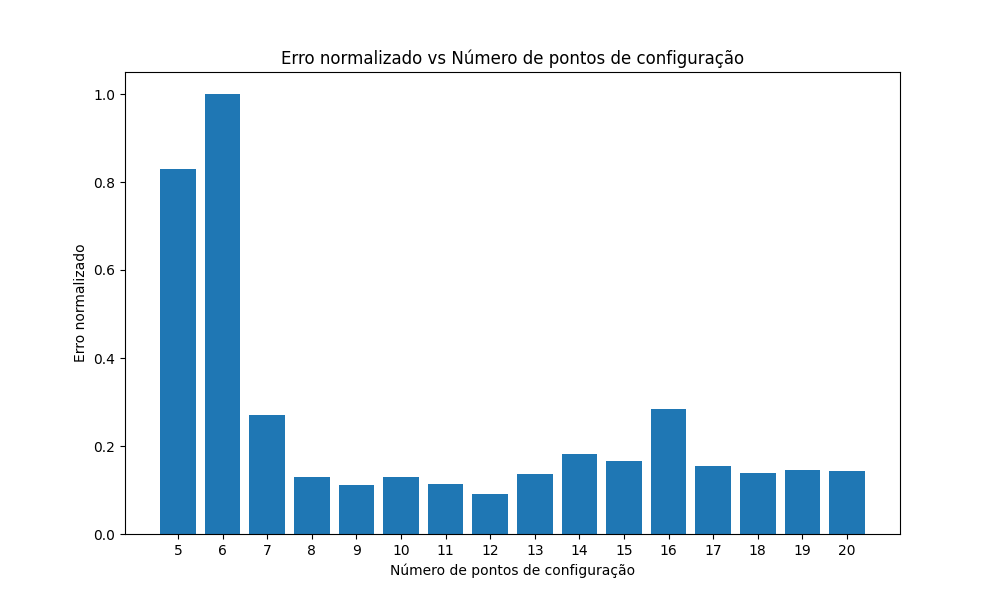
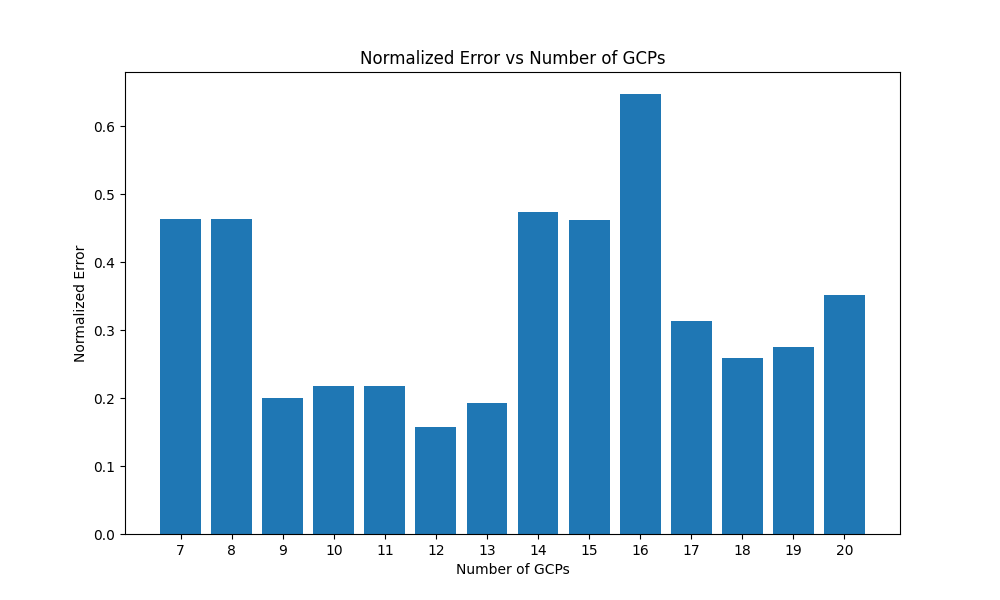
more results

diff --git a/CHENGDU.py b/CHENGDU.py
@@ -1,4 +1,4 @@
-# TESTE ELVAS
+# TESTE MICHIGAN 
 import cv2
 import numpy as np
 import math
@@ -58,43 +58,43 @@ def latlon_to_xy(lat_deg, lon_deg, lat0_deg, lon0_deg):
 def main():
     # 1. Definir as coordenadas de Configuração e Teste (strings)
     config_coords_str = [
-        "38.875340°N 7.164515°W",
-        "38.875394°N 7.164664°W",
-        "38.875270°N 7.164353°W",
-        "38.875199°N 7.164562°W",
-        "38.875531°N 7.164456°W",
-        "38.875565°N 7.164642°W",
-        "38.875216°N 7.164752°W",
-        "38.875139°N 7.164428°W",
-        "38.875468°N 7.164205°W",
-        "38.875589°N 7.164317°W",
-        "38.875668°N 7.164758°W",
-        "38.875516°N 7.164837°W",
-        "38.875111°N 7.164654°W",
-        "38.875060°N 7.164320°W",
-        "38.875186°N 7.164166°W",
-        "38.875011°N 7.164581°W",
-        "38.875315°N 7.164904°W",
-        "38.875465°N 7.164362°W",
-        "38.875389°N 7.164752°W",
-        "38.875260°N 7.164445°W"
+        "30.565206°N 104.083595°E",
+        "30.565403°N 104.083449°E",
+        "30.565391°N 104.083626°E",
+        "30.565243°N 104.083402°E",
+        "30.565005°N 104.083492°E",
+        "30.565513°N 104.083556°E",
+        "30.565294°N 104.083816°E",
+        "30.565324°N 104.083251°E",
+        "30.565461°N 104.083402°E",
+        "30.565069°N 104.083711°E",
+        "30.565458°N 104.083763°E",
+        "30.565160°N 104.083304°E",
+        "30.565495°N 104.083471°E",
+        "30.565018°N 104.083625°E",
+        "30.565415°N 104.083346°E",
+        "30.565126°N 104.083803°E",
+        "30.565492°N 104.083695°E",
+        "30.565086°N 104.083354°E",
+        "30.565392°N 104.083834°E",
+        "30.565212°N 104.083272°E"
     ]
     test_coords_str = [
-        "38.875338°N 7.164687°W",
-        "38.875199°N 7.164639°W",
-        "38.875157°N 7.164494°W",
-        "38.875209°N 7.164368°W",
-        "38.875313°N 7.164284°W",
-        "38.875425°N 7.164303°W",
-        "38.875487°N 7.164426°W",
-        "38.875508°N 7.164530°W",
-        "38.875479°N 7.164637°W",
-        "38.875429°N 7.164702°W",
-        "38.875287°N 7.164766°W",
-        "38.875201°N 7.164812°W",
-        "38.875148°N 7.164851°W",
-        "38.875076°N 7.164814°W",
-        "38.875117°N 7.164744°W"
+        "30.565212°N 104.083272°E",
+        "30.565283°N 104.083692°E",
+        "30.565282°N 104.083658°E",
+        "30.565283°N 104.083629°E",
+        "30.565289°N 104.083586°E",
+        "30.565301°N 104.083547°E",
+        "30.565305°N 104.083518°E",
+        "30.565308°N 104.083492°E",
+        "30.565305°N 104.083467°E",
+        "30.565304°N 104.083445°E",
+        "30.565312°N 104.083421°E",
+        "30.565314°N 104.083402°E",
+        "30.565309°N 104.083380°E",
+        "30.565308°N 104.083368°E",
+        "30.565318°N 104.083346°E"
     ]
     
     # 2. Converter as strings para (lat, lon)
@@ -109,7 +109,7 @@ def main():
     test_world   = np.array([latlon_to_xy(lat, lon, lat0, lon0) for (lat, lon) in test_latlon], dtype=np.float32)
 
     # 5. Carregar a imagem (substitua "tes.png" pelo caminho da sua imagem)
-    image_path = "imgs/EL2.png"
+    image_path = "imgs/CHENGDU.png"
     img = cv2.imread(image_path)
     if img is None:
         print("Erro ao carregar a imagem.")
@@ -173,7 +173,8 @@ def main():
         mean_error = np.mean(errors)
         mean_error_cm = mean_error * 100.0
         print(f"Usando {n} pontos de configuração: erro médio = {mean_error_cm:.2f} cm")
-
+        
+        
     # 9. Avaliar a homografia usando diferentes números de pontos de configuração (de 20 até 4)
     print("\nAvaliação da homografia:")
     for n in range(20, 3, -1):
@@ -198,6 +199,7 @@ def main():
         std_error_cm = std_error * 100.0
 
         print(f"Usando {n:2d} pontos de configuração: erro médio = {mean_error_cm:.2f} cm | desvio padrão = {std_error_cm:.2f} cm")
+        
 
 if __name__ == "__main__":
     main()

diff --git a/0stats.py b/0stats.py
@@ -6,7 +6,7 @@ from statistics import mean
 def main():
     folder = "results"  # Pasta onde estão os ficheiros
     # Dicionário para armazenar os erros normalizados de cada configuração, agregados de todos os ficheiros
-    aggregated_data = {i: [] for i in range(5, 21)}
+    aggregated_data = {i: [] for i in range(7, 21)}
     
     # Expressão regular para extrair os valores dos ficheiros
     pattern = re.compile(r"Usando (\d+) pontos de configuração: erro médio = ([\d\.]+) cm")
@@ -23,7 +23,7 @@ def main():
                     if match:
                         config_points = int(match.group(1))
                         error_value = float(match.group(2))
-                        if 5 <= config_points <= 20:
+                        if 7 <= config_points <= 20:
                             file_data[config_points] = error_value
             # Se houver dados no ficheiro, normaliza-os usando min-max
             if file_data:
@@ -32,7 +32,7 @@ def main():
                 file_max = max(valores)
                 # Evita divisão por zero se todos os valores forem iguais
                 if file_max == file_min:
-                    normalized_file = {k: 0.5 for k in file_data.keys()}
+                    normalized_file = {k: 0.7 for k in file_data.keys()}
                 else:
                     normalized_file = {k: (v - file_min) / (file_max - file_min) for k, v in file_data.items()}
                 # Agrega os valores normalizados no dicionário geral
@@ -46,9 +46,9 @@ def main():
     # Cria o gráfico de barras com os valores normalizados médios
     plt.figure(figsize=(10, 6))
     plt.bar(x_values, mean_normalized)
-    plt.xlabel("Número de pontos de configuração")
-    plt.ylabel("Erro normalizado")
-    plt.title("Erro normalizado vs Número de pontos de configuração")
+    plt.xlabel("Number of GCPs")
+    plt.ylabel("Normalized Error")
+    plt.title("Normalized Error vs Number of GCPs")
     plt.xticks(x_values)
     
     # Salva o gráfico como PNG

diff --git a/MI.py b/MI.py
@@ -173,6 +173,33 @@ def main():
         mean_error = np.mean(errors)
         mean_error_cm = mean_error * 100.0
         print(f"Usando {n} pontos de configuração: erro médio = {mean_error_cm:.2f} cm")
+        
+        
+    # 9. Avaliar a homografia usando diferentes números de pontos de configuração (de 20 até 4)
+    print("\nAvaliação da homografia:")
+    for n in range(20, 3, -1):
+        subset_pixels = config_pixels[:n]
+        subset_world  = config_world[:n]
+        H, status = cv2.findHomography(subset_pixels, subset_world, cv2.RANSAC, 5.0)
+        if H is None:
+            print(f"Falha ao calcular homografia com {n} pontos.")
+            continue
+
+        # Aplicar a homografia aos pontos de teste
+        test_pixels_reshaped = test_pixels.reshape(-1, 1, 2)
+        test_pred = cv2.perspectiveTransform(test_pixels_reshaped, H)
+        test_pred = test_pred.reshape(-1, 2)
+
+        # Calcular o erro (distância Euclidiana) entre os pontos previstos e os pontos de teste (em metros)
+        errors = np.linalg.norm(test_pred - test_world, axis=1)
+        mean_error = np.mean(errors)
+        std_error = np.std(errors)
+        
+        mean_error_cm = mean_error * 100.0
+        std_error_cm = std_error * 100.0
+
+        print(f"Usando {n:2d} pontos de configuração: erro médio = {mean_error_cm:.2f} cm | desvio padrão = {std_error_cm:.2f} cm")
+        
 
 if __name__ == "__main__":
     main()

diff --git a/EL.py b/EL.py
@@ -174,5 +174,32 @@ def main():
         mean_error_cm = mean_error * 100.0
         print(f"Usando {n} pontos de configuração: erro médio = {mean_error_cm:.2f} cm")
 
+    # 9. Avaliar a homografia usando diferentes números de pontos de configuração (de 20 até 4)
+    print("\nAvaliação da homografia:")
+    for n in range(20, 3, -1):
+        subset_pixels = config_pixels[:n]
+        subset_world  = config_world[:n]
+        H, status = cv2.findHomography(subset_pixels, subset_world, cv2.RANSAC, 5.0)
+        if H is None:
+            print(f"Falha ao calcular homografia com {n} pontos.")
+            continue
+
+        # Aplicar a homografia aos pontos de teste
+        test_pixels_reshaped = test_pixels.reshape(-1, 1, 2)
+        test_pred = cv2.perspectiveTransform(test_pixels_reshaped, H)
+        test_pred = test_pred.reshape(-1, 2)
+
+        # Calcular o erro (distância Euclidiana) entre os pontos previstos e os pontos de teste (em metros)
+        errors = np.linalg.norm(test_pred - test_world, axis=1)
+        mean_error = np.mean(errors)
+        std_error = np.std(errors)
+        
+        mean_error_cm = mean_error * 100.0
+        std_error_cm = std_error * 100.0
+
+        print(f"Usando {n:2d} pontos de configuração: erro médio = {mean_error_cm:.2f} cm | desvio padrão = {std_error_cm:.2f} cm")
+
+
+
 if __name__ == "__main__":
     main()
